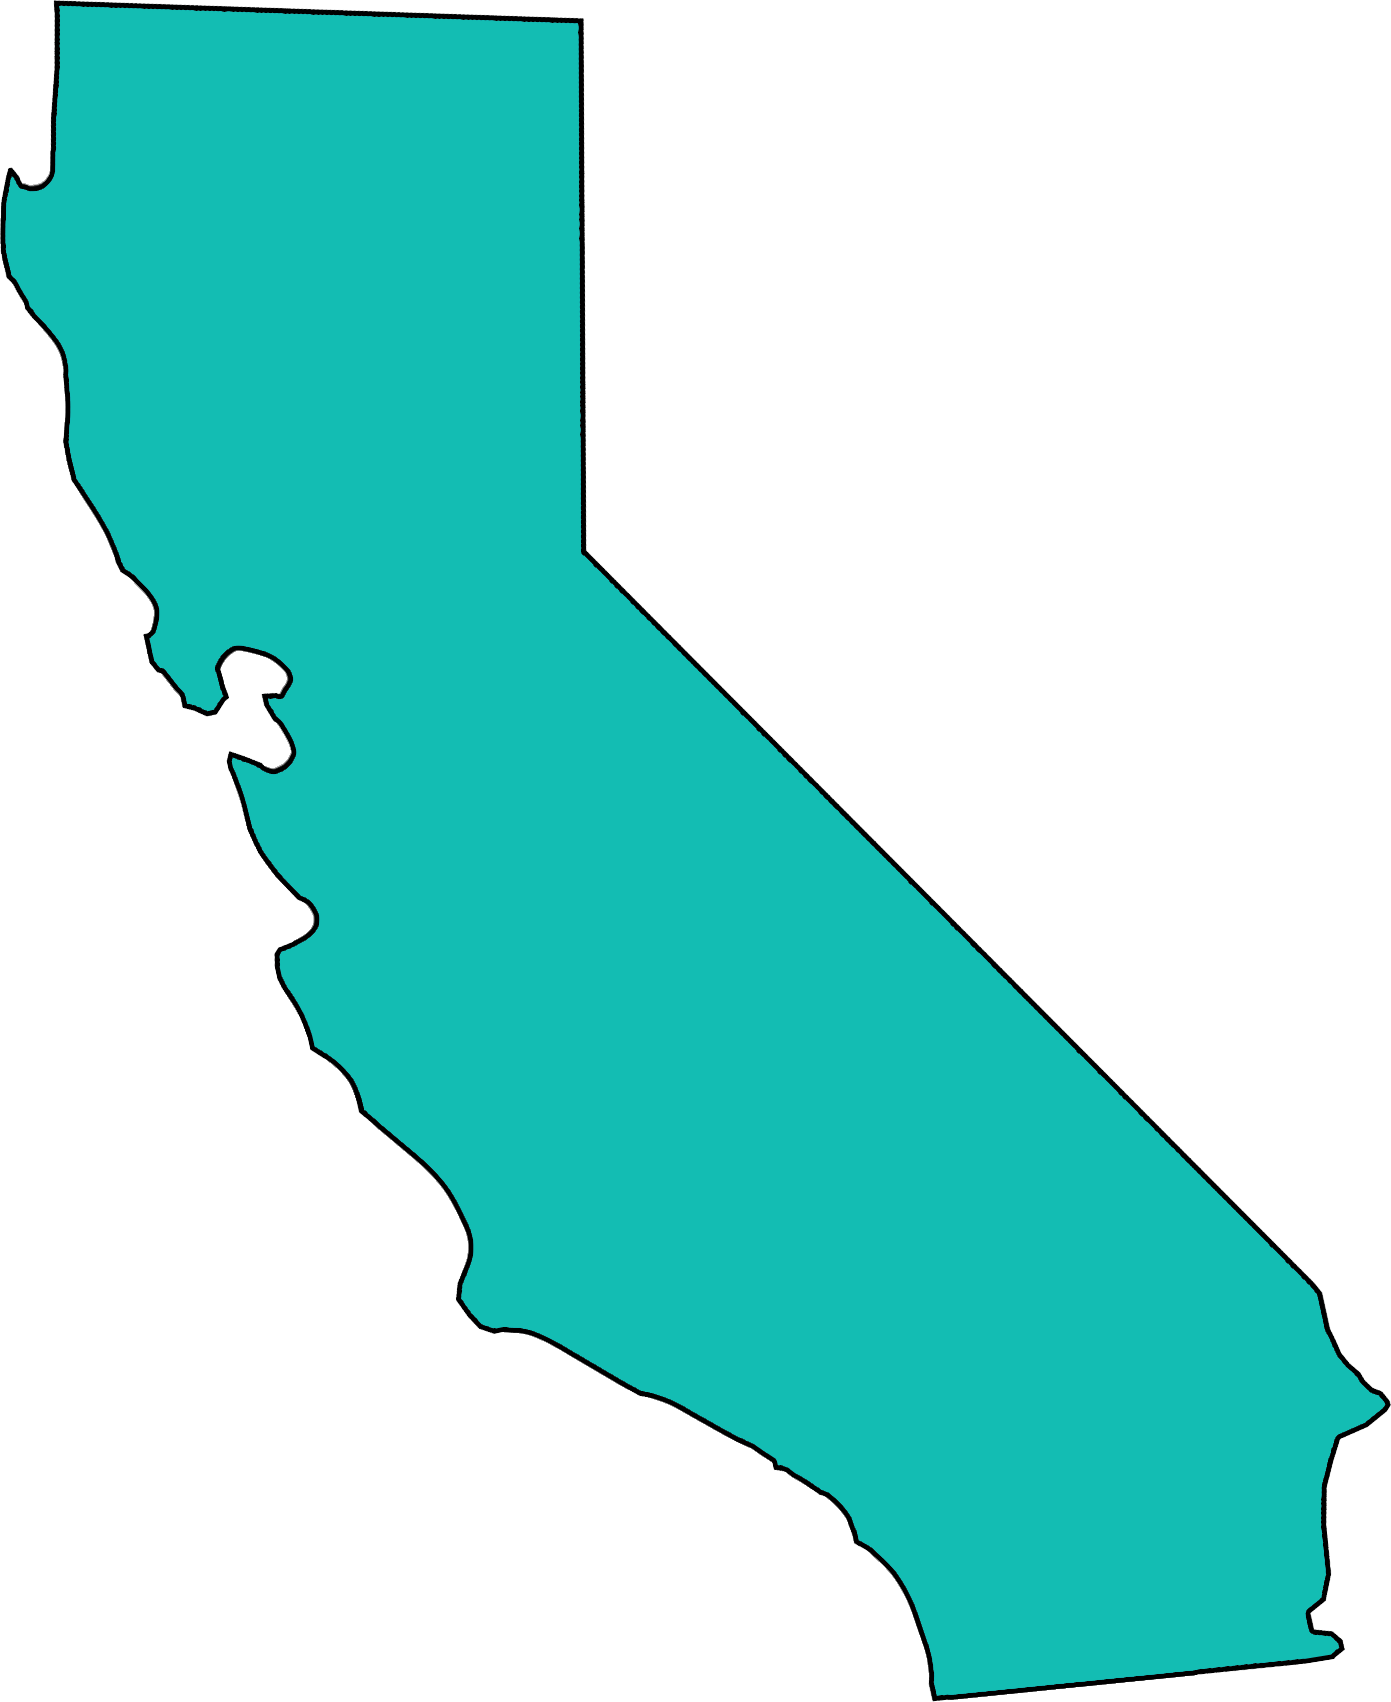
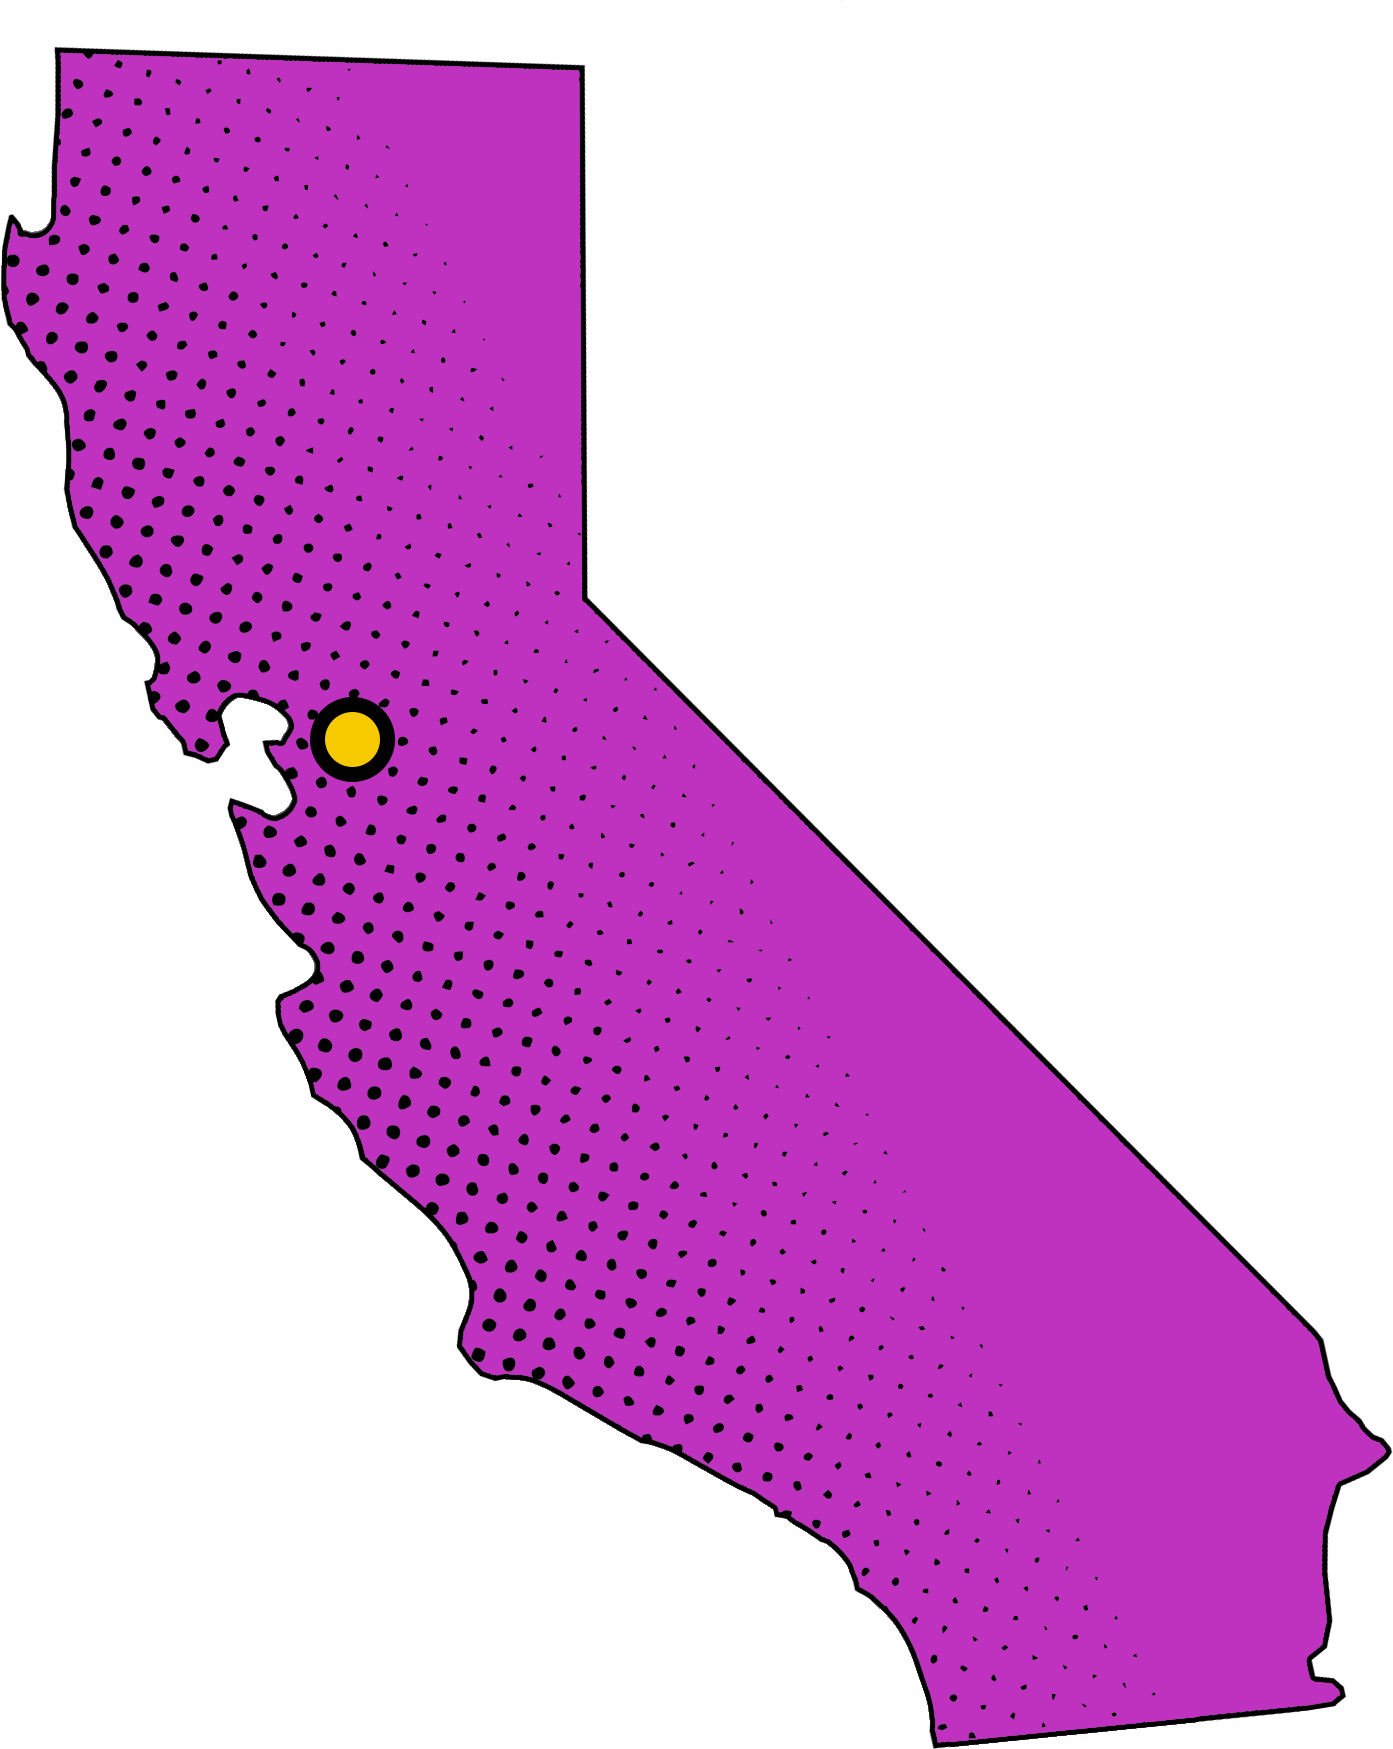
docs: Update site (autogen)

diff --git a/docs/index.html b/docs/index.html
@@ -44,16 +44,30 @@
 		</div>  <!-- row -->
 		<div class="row mt-4">
 			<div class="state-col col-md-4 col-sm-12 col-xs-12 px-4">
-				<img class="state mx-auto d-block" src="/matt-sophie-wedding/images/california-dot.png" />
+				<img class="state mx-auto d-block" src="/matt-sophie-wedding/images/california.png" />
 			</div>  <!-- col -->
 			<div class="col-md-8 col-sm-12 col-xs-12">
 				<p>
 					<span class="title">BBQ/Potluck Picnic</span><br />
 					<span>Saturday June 22, 2019</span><br />
 					<span>11AM to 6PM</span><br />
-					<span>Fern Picnic Area, Tilden Regional Park</span>
+					<span>Fern Picnic Area, <a href="https://www.ebparks.org/parks/tilden/">Tilden Regional Park</a></span>
 				</p>
 				<p>TODO: info about food/drink, parking, bathrooms, etc.</p>
+
+				<p>
+				<a data-toggle="collapse" href="#tilden-directions" role="button" aria-expanded="false" aria-controls="tilden-directions">
+					Directions
+				</a>
+
+				<div class="collapse" id="tilden-directions">
+				  <div>
+					  <p><b>From Highway 24:</b> Take the Fish Ranch Road exit. Up Fish Ranch Road, right on Grizzly Peak Blvd, right on S. Park Drive, then left on Wildcat Canyon Road. Continue for 0.9 miles, then veer right on Central Park Drive. Continue 0.6 miles; Fern will be on your left.</p>
+
+					  <p><b>From Interstate 80:</b> Take the Buchanan Street exit. Continue east along Buchanan Street, in 0.4 miles veer right, Buchanan becomes Marin Avenue. At the traffic circle turn onto Los Angeles Avenue, heading uphill. Left on Spruce Street. At the top of Spruce, continue straight across the Grizzly Peak Blvd intersection, then make an immediate left onto Canon Drive. Continue to the bottom of Canon, turn right onto Central Park Drive. Continue 0.4 miles; Fern will be on your right.</p>
+				  </div>
+				</div>  <!-- collapse -->
+				</p>
 
 				<p>
 					<span class="title">Afterparty</span><br />
@@ -84,7 +98,7 @@
 		</div>  <!-- row -->
 		<div class="row mt-4">
 			<div class="state-col col-md-4 col-sm-12 col-xs-12 px-4">
-				<img class="state nh mx-auto d-block" src="/matt-sophie-wedding/images/new_hampshire-dot.png" />
+				<img class="state nh mx-auto d-block" src="/matt-sophie-wedding/images/new_hampshire.png" />
 			</div>  <!-- col -->
 			<div class="col-md-8 col-sm-12 col-xs-12">
 				<p>Matt and Sophie will be doing their actual ceremony as a small private affair, but they still want to celebrate with everyone! For those who cannot make the California trek, they will be holding a second party on the East Coast later in the summer, so stay tuned!</p>
@@ -114,8 +128,8 @@
 
 	<div class="container">
 		<div class="row my-5 py-3">
-			<div class="col-12">
-				<img class="birds mx-auto d-block" src="/matt-sophie-wedding/images/birds2.png" />
+			<div class="col-12 text-center">
+				<a href="http://www.sophiehood.com/"><img width="60px" src="/matt-sophie-wedding/images/birds2.png" />
 			</div>  <!-- col -->
 		</div>  <!-- row -->
 	</div>  <!-- container -->

diff --git a/docs/css/main.css b/docs/css/main.css
@@ -1,5 +1,5 @@
 body {
-  background-color: #F031D1;
+  background-color: #13BDB3;
   font-family: letter-gothic-std, monospace; }
   body h1, body h2 {
     font-family: lores-12, sans-serif;
@@ -8,17 +8,17 @@ body {
     font-weight: 700;
     font-size: 110%; }
   body a {
-    color: #13BDB3;
-    font-weight: 600; }
+    color: black;
+    text-decoration: underline; }
   body a:hover {
-    color: #0e8f87; }
+    color: #F031D1; }
 
 .hero {
   width: 100%; }
 
 .info-box {
   background-color: #ffffff;
-  box-shadow: 5px 5px 2px #444444; }
+  box-shadow: 5px 5px 2px #A3118C; }
 
 .state {
   width: 100%;
@@ -28,6 +28,3 @@ body {
 .nh {
   min-width: 50px;
   max-width: 100px; }
-
-.birds {
-  width: 60px; }
